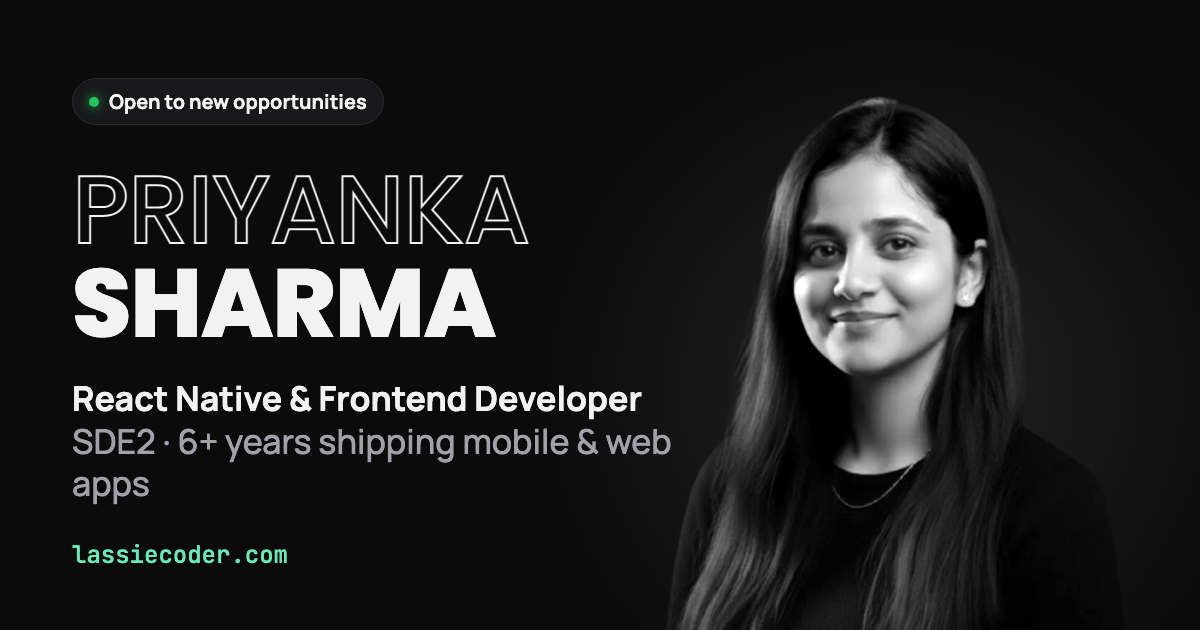
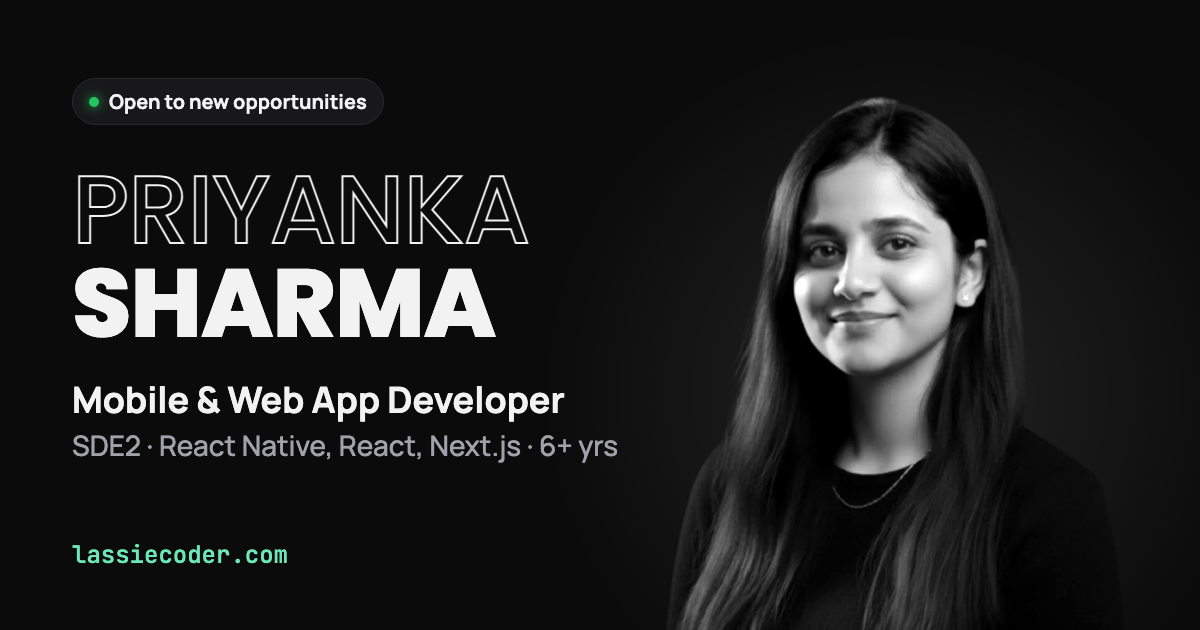
seo: share card says 'Mobile & Web App Developer'
Update only the link preview shown on LinkedIn, X and other apps:
og:title and twitter:title, plus a regenerated og-image with the new
role line. The image URL is versioned (?v=2) so platforms fetch the
new picture instead of their cached copy. Page title, description,
hero and structured data are unchanged.

Changed region(s): [[0.0617, 0.6032, 0.555, 0.7238], [0.0617, 0.754, 0.1233, 0.8143]]

diff --git a/index.html b/index.html
@@ -30,7 +30,7 @@
     <meta property="og:url" content="https://lassiecoder.com/" />
     <meta
       property="og:title"
-      content="Priyanka Sharma (lassiecoder) · React Native &amp; Frontend Developer"
+      content="Priyanka Sharma (lassiecoder) · Mobile &amp; Web App Developer"
     />
     <meta
       property="og:description"
@@ -38,7 +38,7 @@
     />
     <meta
       property="og:image"
-      content="https://lassiecoder.com/assets/og-image.png"
+      content="https://lassiecoder.com/assets/og-image.png?v=2"
     />
     <meta property="og:image:width" content="1200" />
     <meta property="og:image:height" content="630" />
@@ -55,7 +55,7 @@
     <meta name="twitter:creator" content="@lassiecoder" />
     <meta
       name="twitter:title"
-      content="Priyanka Sharma (lassiecoder) · React Native &amp; Frontend Developer"
+      content="Priyanka Sharma (lassiecoder) · Mobile &amp; Web App Developer"
     />
     <meta
       name="twitter:description"
@@ -63,7 +63,7 @@
     />
     <meta
       name="twitter:image"
-      content="https://lassiecoder.com/assets/og-image.png"
+      content="https://lassiecoder.com/assets/og-image.png?v=2"
     />
 
     <!-- Structured data: tells search engines who this page is about -->
